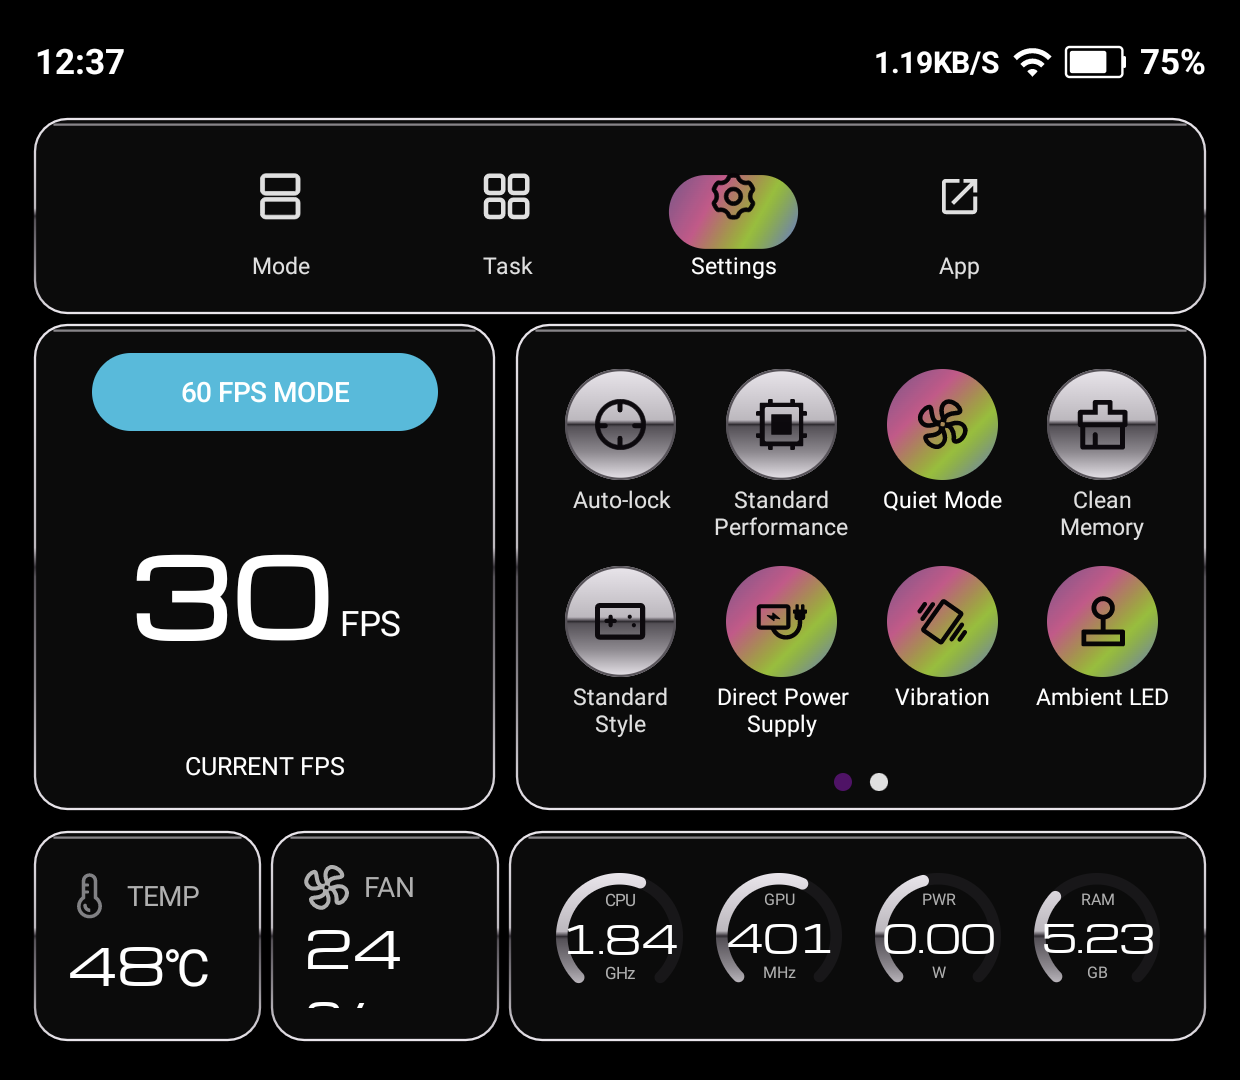
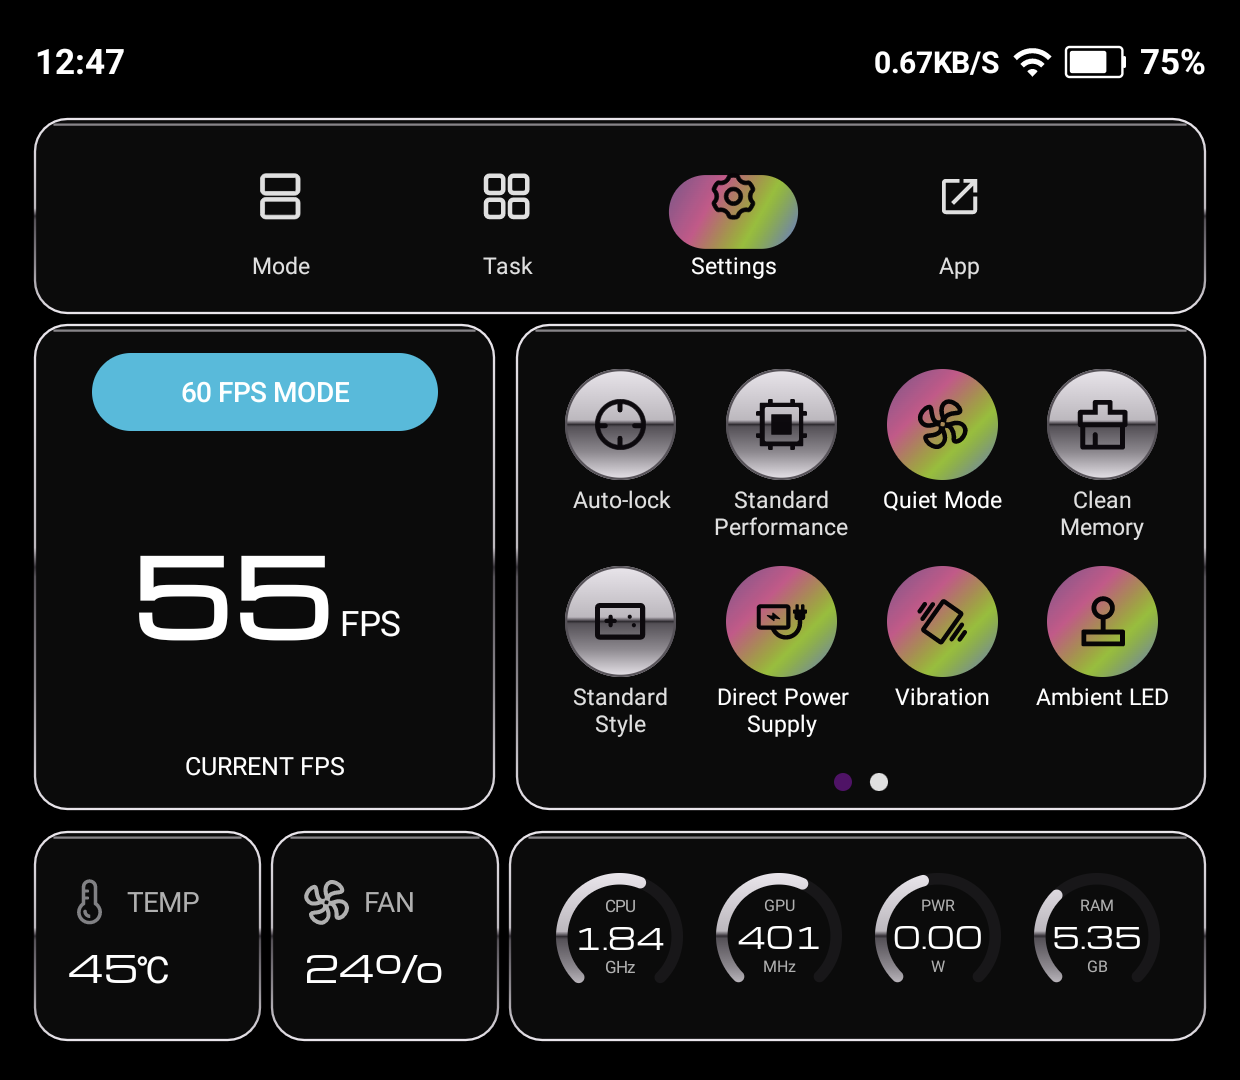
fix(looks): shrink Y2K Chrome telemetry readouts to fit the wide font
Michroma (Y2K Chrome's display font) is wide, so the FAN value wrapped/clipped and the TEMP + CPU/GPU/PWR/RAM
gauge numbers were oversized. Add SettingsTabLookSpec.infoValueScale (TEMP/FAN) and lower ringValueScale for
Y2K Chrome only; FPS and all other looks are unchanged. Refresh the Y2K screenshot + gallery.

diff --git a/app/src/main/java/jr/brian/commandpannel/ui/theme/TccLookSpec.kt b/app/src/main/java/jr/brian/commandpannel/ui/theme/TccLookSpec.kt
@@ -46,6 +46,8 @@ data class SettingsTabLookSpec(
     val ringTitleBandFraction: Float? = null,
     val ringValueScale: Float = 0.30f,
     val ringUnitScale: Float = 0.13f,
+    /** Multiplier on the TEMP/FAN info-card value size (22sp base); < 1 for wide display fonts. */
+    val infoValueScale: Float = 1f,
     val fpsBadgeShape: Shape = RoundedCornerShape(50),
 )
 
@@ -270,7 +272,8 @@ val Y2kChromeLookSpec: TccLookSpec = StockLookSpec.copy(
     panelCardShape = RoundedCornerShape(aynDp(14f)),
     tile = StockLookSpec.tile.copy(buttonShape = CircleShape),
     slider = StockLookSpec.slider.copy(trackShape = PillShape),
-    settingsTab = StockLookSpec.settingsTab.copy(fpsBadgeShape = PillShape),
+    // Michroma is a wide display font, so the telemetry readouts need smaller sizes to fit.
+    settingsTab = StockLookSpec.settingsTab.copy(fpsBadgeShape = PillShape, ringValueScale = 0.23f, infoValueScale = 0.72f),
     dialog = DialogLookSpec(dialogShape = RoundedCornerShape(aynDp(16f))),
     traits = LookTraits(
         card = CardStyle.CHROME_RIM, tile = TileStyle.CHROME, gauge = GaugeStyle.CHROME_RING,

diff --git a/app/src/main/java/jr/brian/commandpannel/ui/overlay/SettingsTab.kt b/app/src/main/java/jr/brian/commandpannel/ui/overlay/SettingsTab.kt
@@ -246,7 +246,7 @@ private fun InfoCard(modifier: Modifier, icon: String, iconTint: Color?, title: 
                 Spacer(Modifier.size(6.dp))
                 Text(title, color = colors.tertiary, fontSize = 12.sp)
             }
-            Text(value, color = colors.primary, fontSize = 22.sp, fontWeight = FontWeight.Medium, style = jr.brian.commandpannel.ui.theme.tccDisplayTextStyle())
+            Text(value, color = colors.primary, fontSize = (22 * jr.brian.commandpannel.ui.theme.LocalTccLookSpec.current.settingsTab.infoValueScale).sp, fontWeight = FontWeight.Medium, style = jr.brian.commandpannel.ui.theme.tccDisplayTextStyle())
         }
     }
 }
